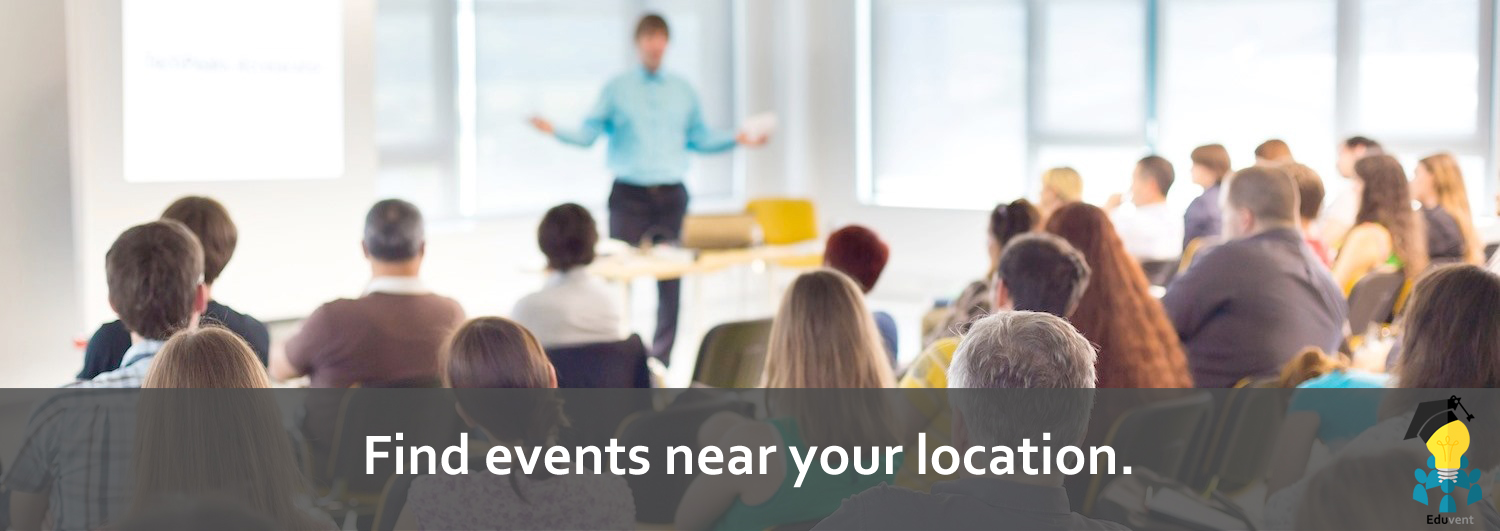
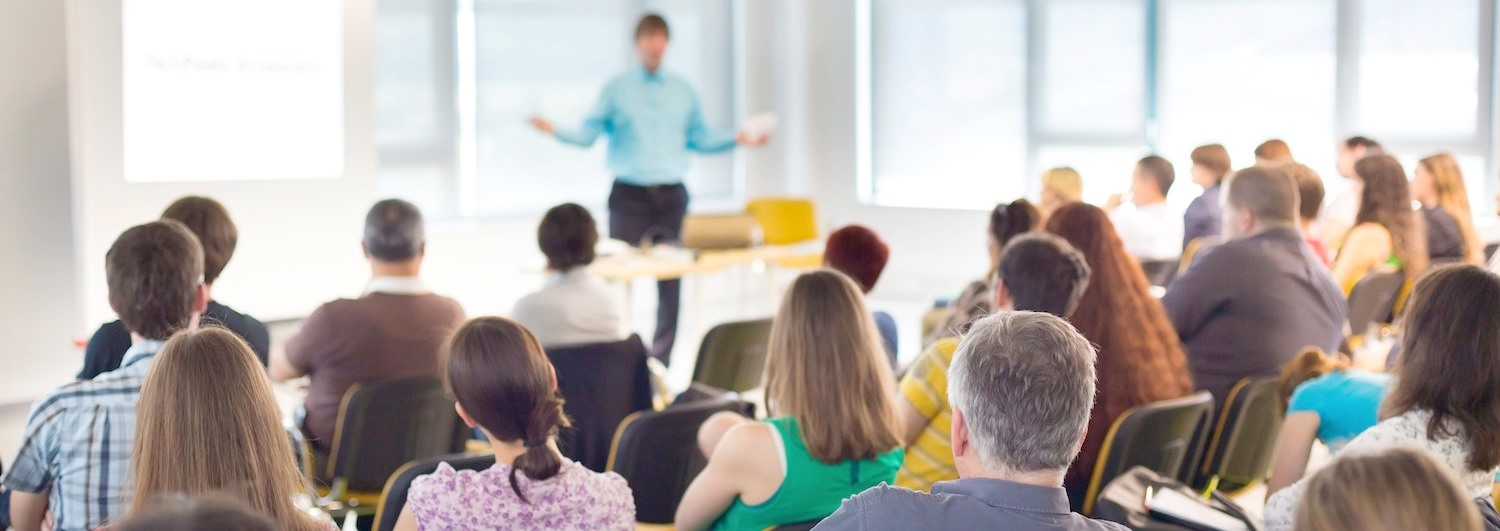
Carousel images changed

Changed region(s): [[0.0, 0.7232, 1.0, 1.0]]

diff --git a/Eduvent/php/home.php b/Eduvent/php/home.php
@@ -13,19 +13,19 @@
 	<!--Slides-->
 	<div class="carousel-inner" role="listbox">
 		<div class="carousel-item active">
-			<img src="images/c1.jpg" alt="First slide">
+			<img src="images/c1.jpg">
 		</div>
 		<div class="carousel-item">
-			<img src="images/c2.jpg" alt="Second slide">
+			<img src="images/c2.jpg">
 		</div>
 		<div class="carousel-item">
-			<img src="images/c3.jpg" alt="Third slide">
+			<img src="images/c3.jpg">
 		</div>
 		<div class="carousel-item">
-			<img src="images/c4.jpg" alt="Third slide">
+			<img src="images/c4.jpg">
 		</div>
 		<div class="carousel-item">
-			<img src="images/c5.jpg" alt="Third slide">
+			<img src="images/c5.jpg">
 		</div>
 	</div>
 	<!--/.Slides-->
@@ -45,6 +45,7 @@
 
 <div class="container">
 	<div class="row">
+
 		<div class="col-md-2">
 			<div class="sidebar-nav list-group">
 
@@ -254,7 +255,9 @@
 			<!--Row 4 (Event market) -->
 			<div class="row" id="event-market-area">
 				<div class="col-md-12">
-					<div class="event-market-area card grey lighten-5" id="search-result"></div>
+
+					<div class="event-market-area card grey lighten-5" id="search-result" hidden></div>
+
 					<div class="grey lighten-5" style="padding:4px;min-height:20em;">
 						<div class="row">
 							<div class="col-md-4">
@@ -274,8 +277,8 @@
 									<!--Card content-->
 									<div class="card-block text-xs-center">
 										<!--Category & Title-->
-										<h5>Shoes</h5>
-										<h4 class="card-title"><strong><a href="">Product name</a></strong></h4>
+										<h5>Topic</h5>
+										<h4 class="card-title"><strong><a href="">Event title</a></strong></h4>
 
 										<!--Description-->
 										<p class="card-text text-xs-left">Temporibus autem quibusdam et aut officiis debitis aut rerum necessitatibus saepe eveniet ut et voluptates.</p>
